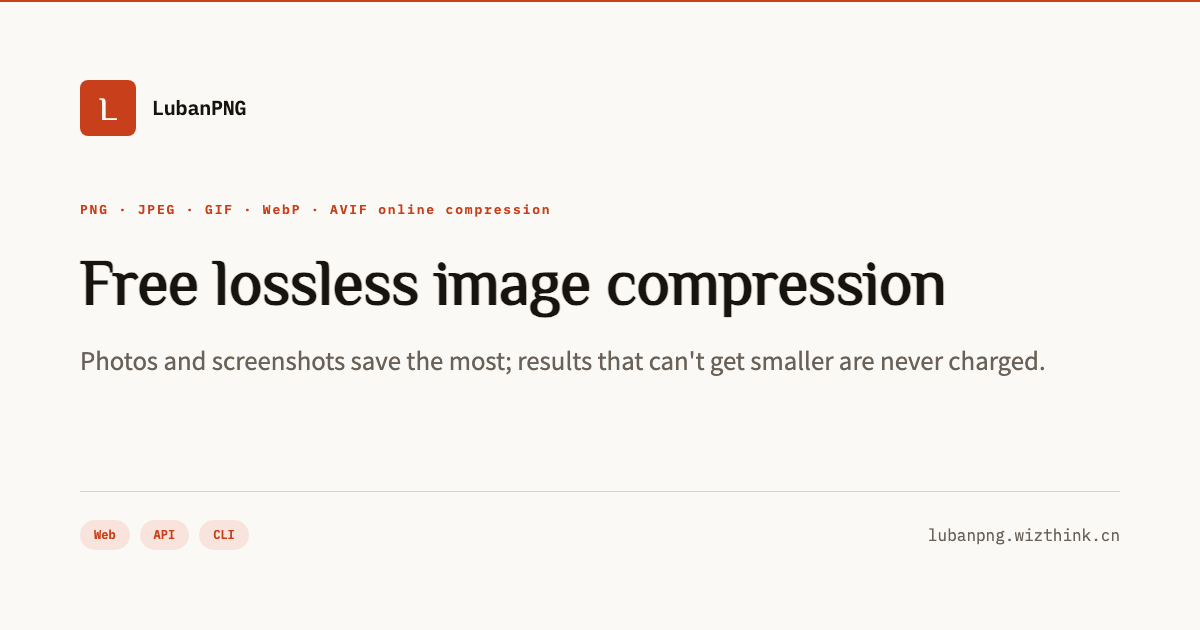
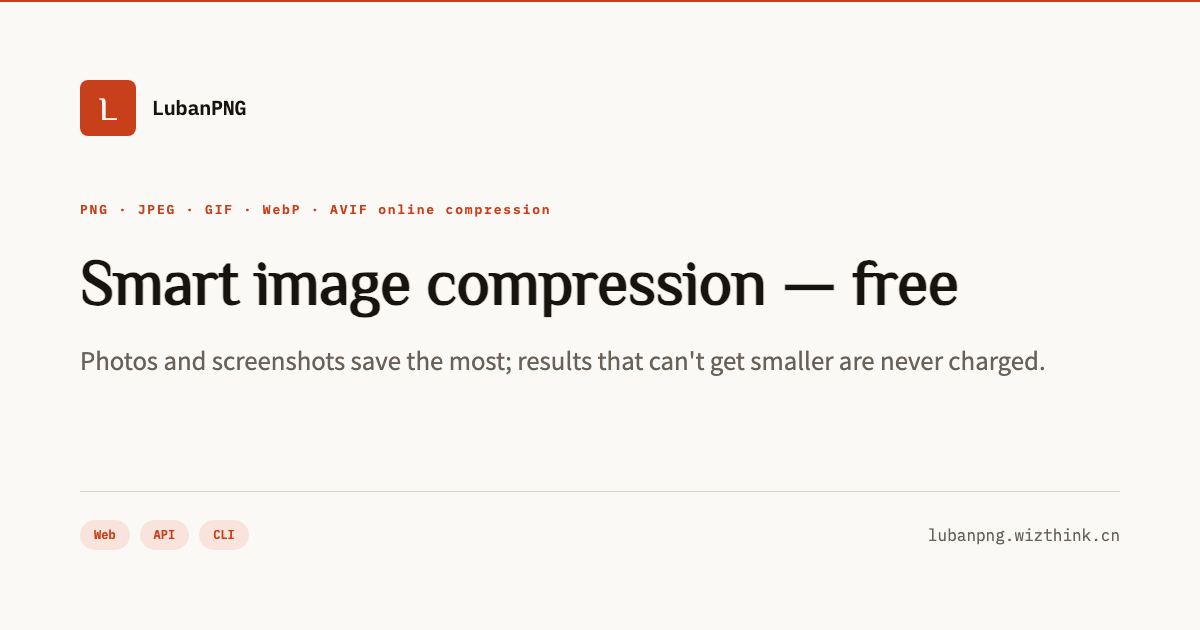
Add copy buttons to code blocks, retitle the hero to smart compression

Changed region(s): [[0.0617, 0.3921, 0.8017, 0.5127]]

diff --git a/apps/web/src/components/CodeBlock.tsx b/apps/web/src/components/CodeBlock.tsx
@@ -1,5 +1,7 @@
-import type { ReactNode } from "react"
+import { useEffect, useRef, useState, type ReactNode } from "react"
+import { useI18n } from "../i18n/I18nProvider.tsx"
 import { cx } from "../lib/cx.ts"
+import { CopyIcon } from "./icons.tsx"
 
 export type CodeTone = "night" | "nightInset" | "panel"
 
@@ -7,6 +9,12 @@ const toneClass: Record<CodeTone, string> = {
   night: "bg-night text-night-text",
   nightInset: "bg-night-code text-night-text",
   panel: "bg-panel text-ink",
+}
+
+const copyButtonClass: Record<CodeTone, string> = {
+  night: "bg-night text-night-muted hover:text-night-text",
+  nightInset: "bg-night text-night-muted hover:text-night-text",
+  panel: "bg-surface text-ink-secondary hover:text-ink",
 }
 
 export const CodeBlock = ({
@@ -19,11 +27,52 @@ export const CodeBlock = ({
   tone?: CodeTone
   className?: string
   label?: string
-}) => (
-  <pre
-    aria-label={label}
-    className={cx("overflow-x-auto whitespace-pre rounded-control px-5 py-4.5 font-mono text-code", toneClass[tone], className)}
-  >
-    <code>{children}</code>
-  </pre>
-)
+}) => {
+  const { t } = useI18n()
+  const preRef = useRef<HTMLPreElement>(null)
+  const [copied, setCopied] = useState(false)
+
+  useEffect(() => {
+    if (!copied) return
+    const timer = setTimeout(() => setCopied(false), 2000)
+    return () => clearTimeout(timer)
+  }, [copied])
+
+  const handleCopy = async () => {
+    const text = preRef.current?.textContent
+    if (!text) return
+    try {
+      await navigator.clipboard.writeText(text)
+      setCopied(true)
+    } catch {
+      setCopied(false)
+    }
+  }
+
+  return (
+    <div className="relative">
+      <pre
+        ref={preRef}
+        aria-label={label}
+        className={cx(
+          "overflow-x-auto whitespace-pre rounded-control px-5 py-4.5 font-mono text-code",
+          toneClass[tone],
+          className,
+        )}
+      >
+        <code>{children}</code>
+      </pre>
+      <button
+        type="button"
+        onClick={handleCopy}
+        className={cx(
+          "absolute right-2 top-2 flex items-center gap-1.5 rounded-control px-2 py-1 text-label",
+          copyButtonClass[tone],
+        )}
+      >
+        <CopyIcon className="size-3.5" />
+        {copied ? t("code.copied") : t("code.copy")}
+      </button>
+    </div>
+  )
+}

diff --git a/apps/web/src/app/renderLocale.test.tsx b/apps/web/src/app/renderLocale.test.tsx
@@ -26,7 +26,7 @@ afterAll(() => {
 })
 
 const chineseRoutes: ReadonlyArray<readonly [string, string]> = [
-  ["/", "免费图片无损压缩"],
+  ["/", "免费图片智能压缩"],
   ["/pricing", "一个额度池，三个入口"],
   ["/developers", "开发者"],
   ["/login", "登录或注册"],
@@ -37,7 +37,7 @@ const chineseRoutes: ReadonlyArray<readonly [string, string]> = [
 ]
 
 const englishRoutes: ReadonlyArray<readonly [string, string]> = [
-  ["/en/", "Free lossless image compression"],
+  ["/en/", "Smart image compression — free"],
   ["/en/pricing", "One quota pool, three doors"],
   ["/en/developers", "Developers"],
   ["/en/login", "Sign in or sign up"],
@@ -61,6 +61,6 @@ describe("localized rendering", () => {
   })
 
   it.each(chineseRoutes)("leaves no English marketing copy on %s", (path) => {
-    expect(render(path)).not.toContain("Free lossless image compression")
+    expect(render(path)).not.toContain("Smart image compression — free")
   })
 })

diff --git a/apps/web/src/i18n/locales/en.ts b/apps/web/src/i18n/locales/en.ts
@@ -32,7 +32,7 @@ export const en: Messages = {
   "footer.source": "Open source on GitHub · Curzibn/LubanPNG",
 
   "home.eyebrow": "PNG · JPEG · GIF · WebP · AVIF online compression",
-  "home.title": "Free lossless image compression",
+  "home.title": "Smart image compression — free",
   "home.quota.anonymous.lead": "Today's free runs are used up.",
   "home.quota.anonymous.action": "Sign in to keep going",
   "home.quota.anonymous.body": "Signing up gives you 50 runs a month, shared across the web app, API and CLI.",
@@ -435,6 +435,9 @@ export const en: Messages = {
   "api.networkError": "Network error — check your connection and try again",
   "api.unreadable": "The service is unavailable right now. Please try again later.",
   "api.downloadFailed": "Download failed",
+
+  "code.copy": "Copy",
+  "code.copied": "Copied",
 
   "notice.close": "Close notice",
 }

diff --git a/apps/web/src/i18n/locales/zh-CN.ts b/apps/web/src/i18n/locales/zh-CN.ts
@@ -30,7 +30,7 @@ export const zhCN = {
   "footer.source": "开源于 GitHub · Curzibn/LubanPNG",
 
   "home.eyebrow": "PNG · JPEG · GIF · WebP · AVIF 在线压缩",
-  "home.title": "免费图片无损压缩",
+  "home.title": "免费图片智能压缩",
   "home.quota.anonymous.lead": "今日免费次数已用完。",
   "home.quota.anonymous.action": "登录后继续用",
   "home.quota.anonymous.body": "注册即每月 50 次，网页、API、CLI 共用同一份额度。",
@@ -422,6 +422,9 @@ export const zhCN = {
   "api.networkError": "网络错误，请检查连接后重试",
   "api.unreadable": "服务暂时不可用，请稍后再试",
   "api.downloadFailed": "下载失败",
+
+  "code.copy": "复制",
+  "code.copied": "已复制",
 
   "notice.close": "关闭提示",
 }

diff --git a/packages/design-tokens/og-copy.ts b/packages/design-tokens/og-copy.ts
@@ -14,7 +14,7 @@ export const ogLocales: OgLocaleCopy[] = [
     lang: "zh-CN",
     mark: "鲁",
     eyebrow: "PNG · JPEG · GIF · WebP · AVIF 在线压缩",
-    headline: "免费图片无损压缩",
+    headline: "免费图片智能压缩",
     lede: "照片和截图收益最大；没变小不计次数。",
     chips: ["网页", "API", "CLI"],
   },
@@ -23,7 +23,7 @@ export const ogLocales: OgLocaleCopy[] = [
     lang: "en",
     mark: "L",
     eyebrow: "PNG · JPEG · GIF · WebP · AVIF online compression",
-    headline: "Free lossless image compression",
+    headline: "Smart image compression — free",
     lede: "Photos and screenshots save the most; results that can't get smaller are never charged.",
     chips: ["Web", "API", "CLI"],
   },
